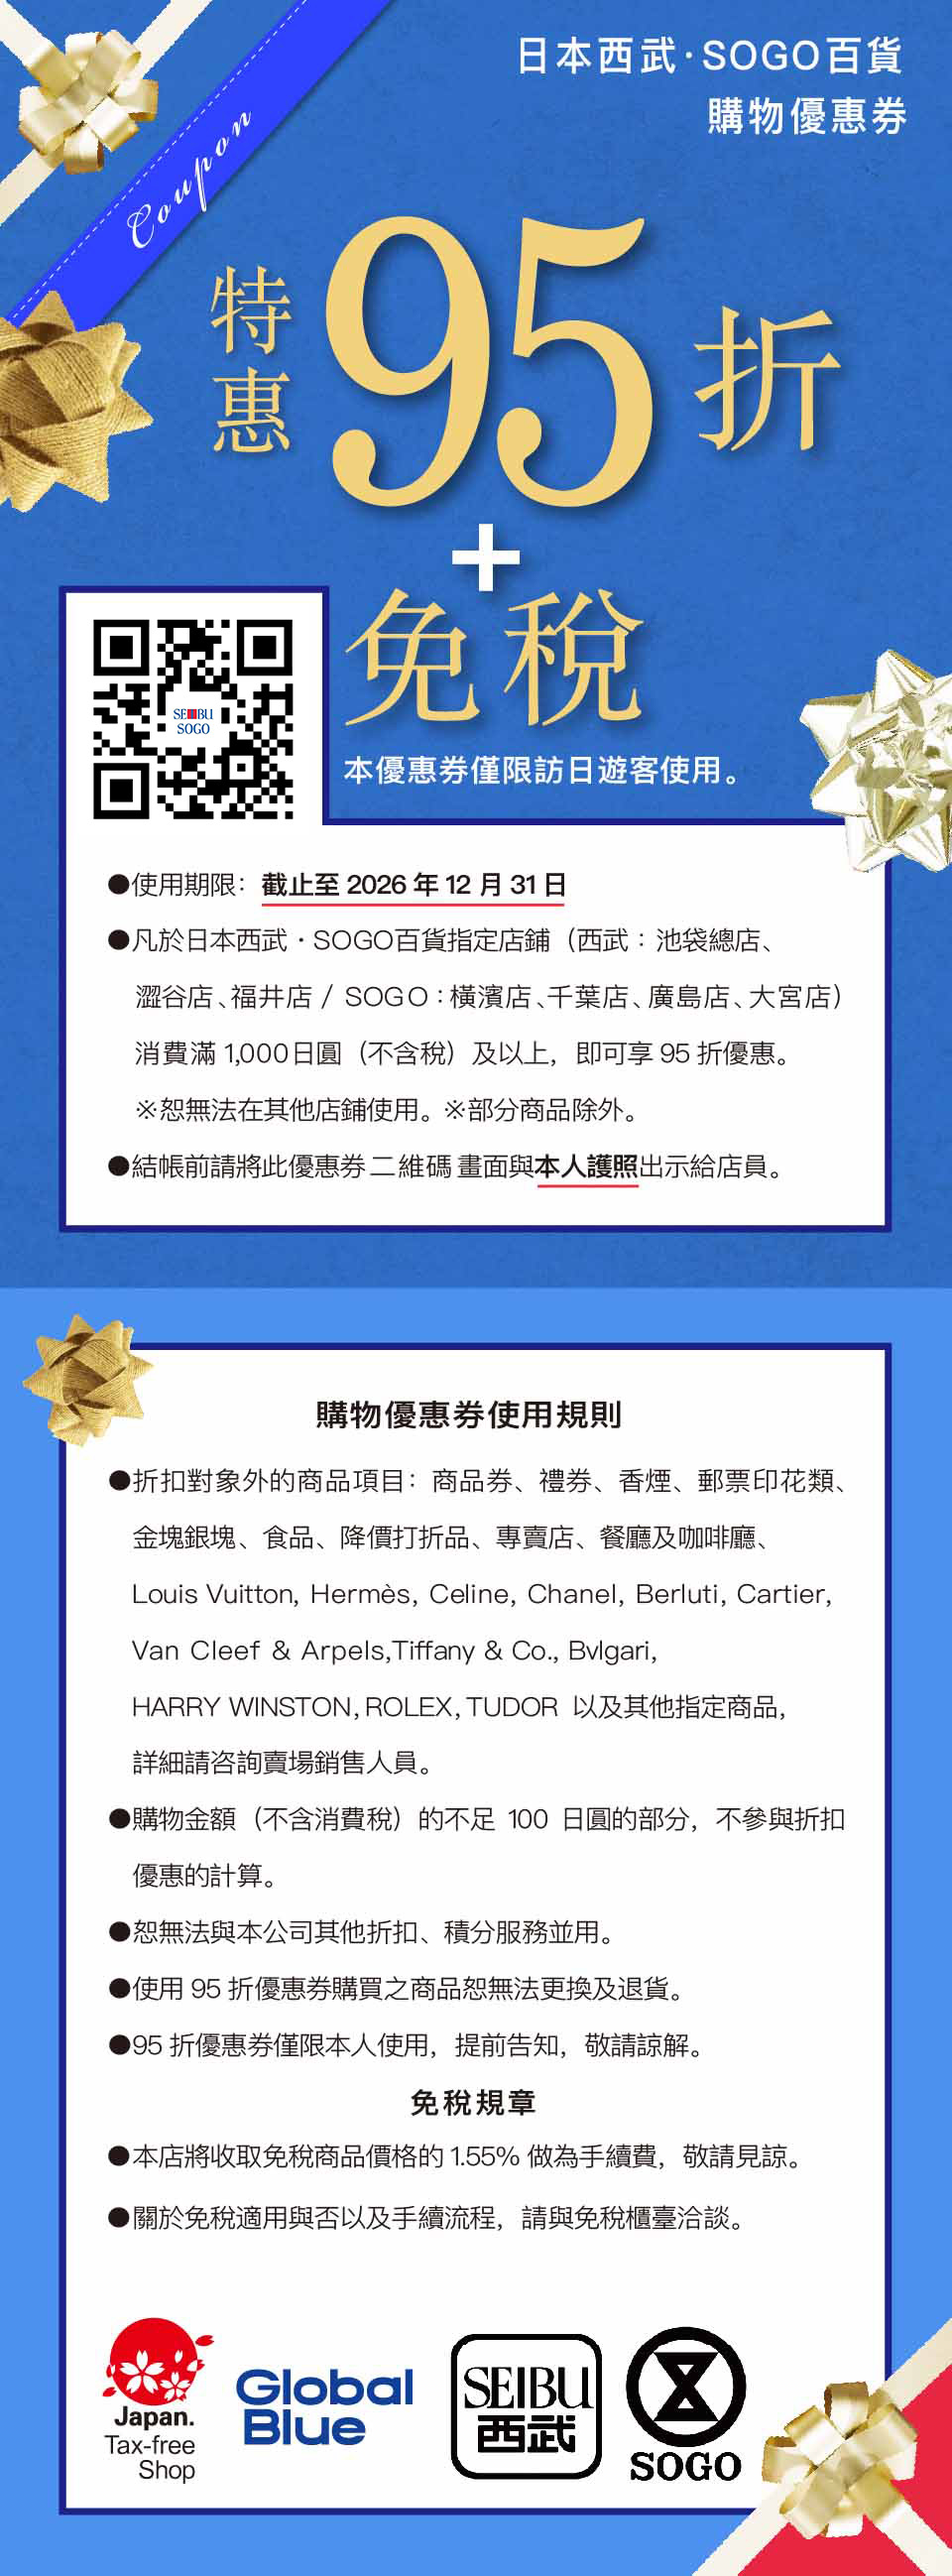
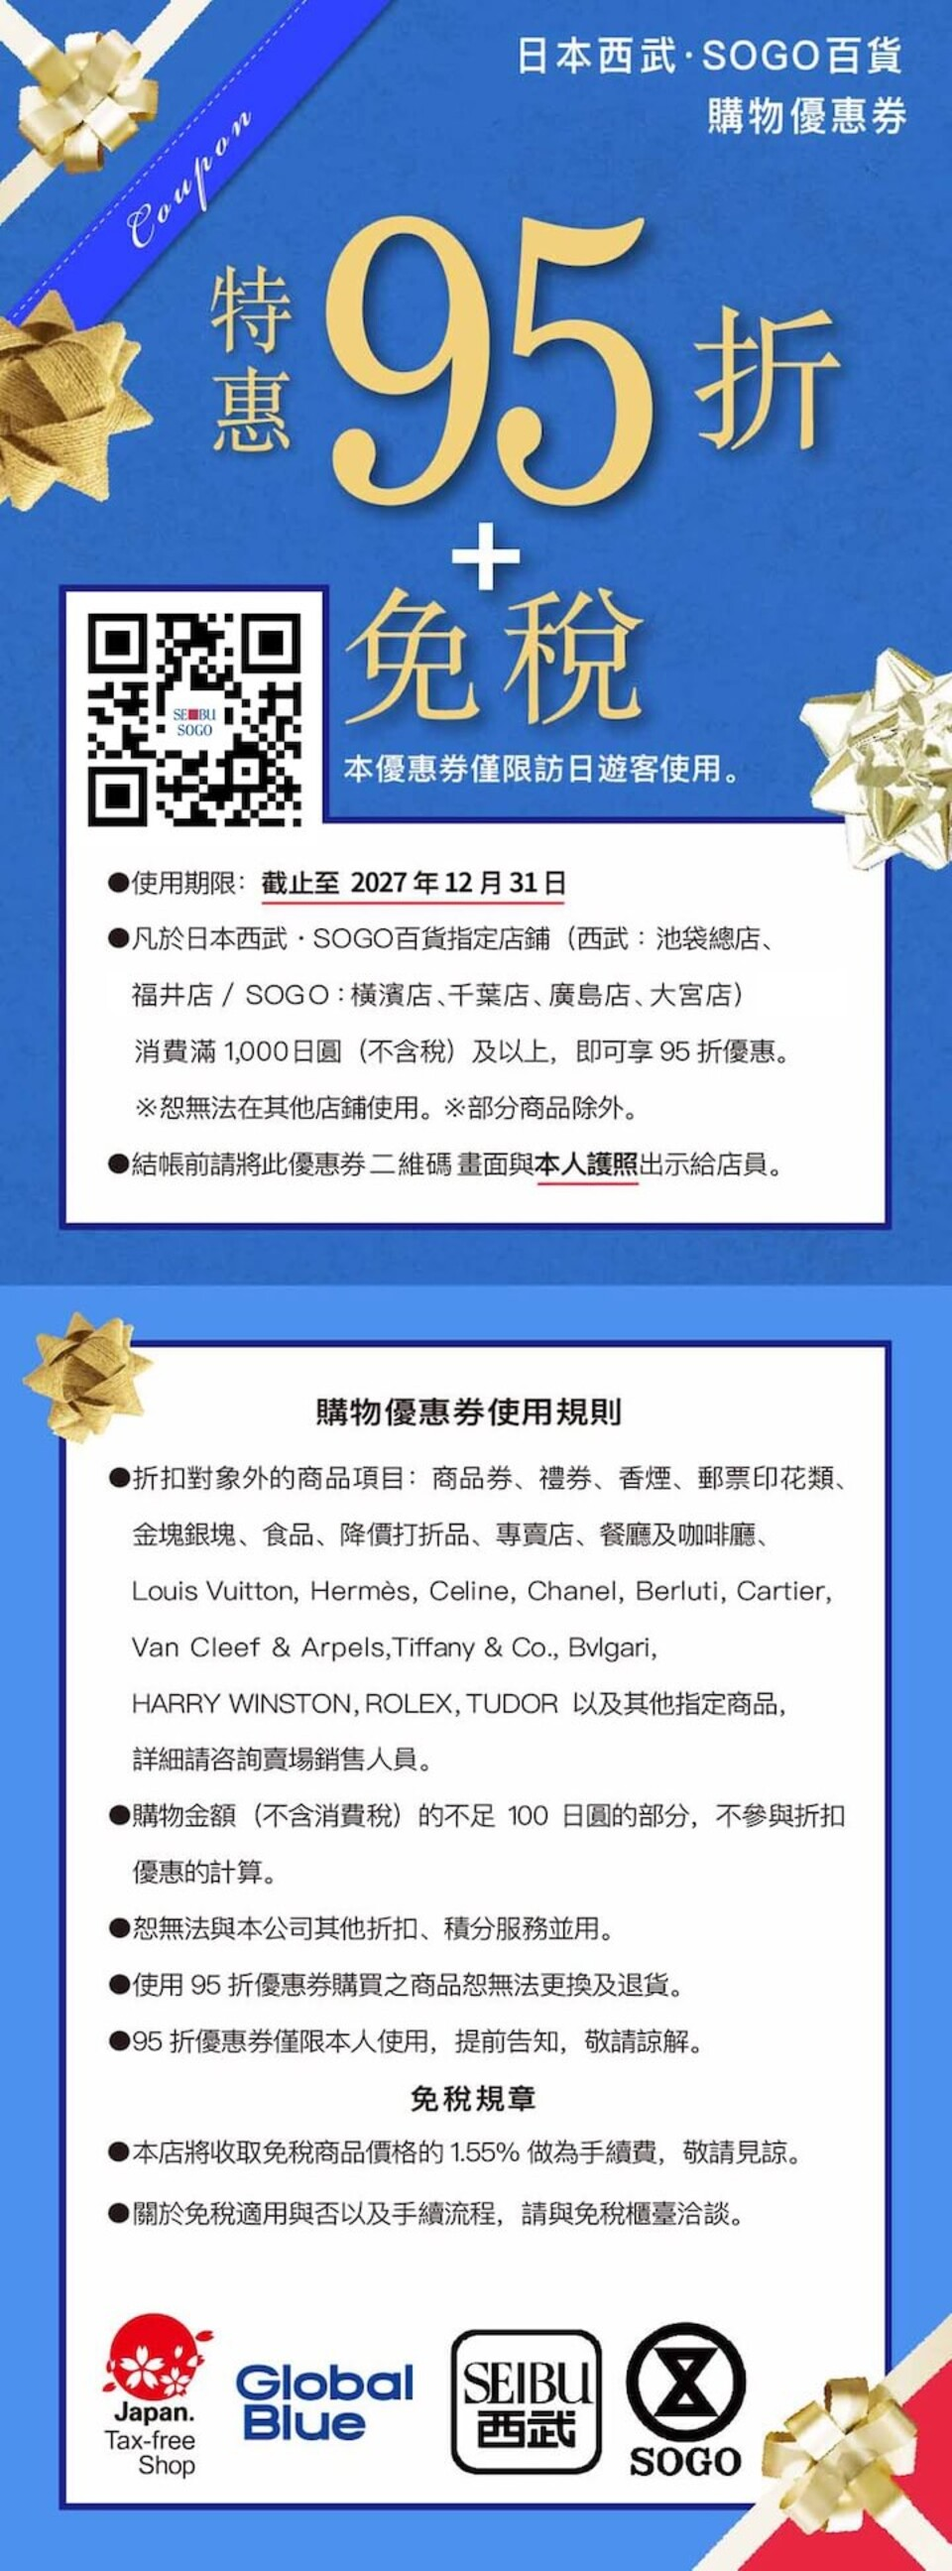
Coupon: update SEIBU/SOGO and Daimaru coupon images, extend deadlines
SEIBU/SOGO (west) now valid through 2027/12/31, Daimaru (daimaru)
through 2027/08/31, both TW and KR sites.

diff --git a/coupon/kr/daimaru/index.html b/coupon/kr/daimaru/index.html
@@ -33,7 +33,7 @@
     "price": "0",
     "priceCurrency": "JPY",
     "availability": "https://schema.org/InStock",
-    "validThrough": "2026-08-31",
+    "validThrough": "2027-08-31",
     "description": "최대 혜택"
   }
 }
@@ -316,7 +316,7 @@
         <h1>다이마루 마쓰자카야 백화점 쿠폰｜과세 포함 3,000엔 이상 구매 시 면세 + 5% 할인, 100,000엔 이상 구매 시 식사권 증정</h1>
         <p>과세 포함 3,000엔 이상 구매 시 면세 + 5% 할인, 100,000엔 이상 구매 시 식사권 증정</p>
         <p>할인 정보: 최대 혜택</p>
-        <p>할인 마감: 2026-08-31</p>
+        <p>할인 마감: 2027-08-31</p>
     </div>
     <script>
         (function(){

diff --git a/coupon/daimaru/index.html b/coupon/daimaru/index.html
@@ -33,7 +33,7 @@
     "price": "0",
     "priceCurrency": "JPY",
     "availability": "https://schema.org/InStock",
-    "validThrough": "2026-08-31",
+    "validThrough": "2027-08-31",
     "description": "85折"
   }
 }
@@ -315,7 +315,7 @@
         <h1>大丸松坂屋百貨 優惠券｜單筆消費含稅滿3千日圓免稅再享95折，滿10万日圓退稅再送美食券</h1>
         <p>單筆消費含稅滿3千日圓免稅再享95折，滿10万日圓退稅再送美食券</p>
         <p>折扣資訊：85折</p>
-        <p>優惠截止：2026-08-31</p>
+        <p>優惠截止：2027-08-31</p>
     </div>
     <script>
         (function(){

diff --git a/coupon/kr/west/index.html b/coupon/kr/west/index.html
@@ -33,7 +33,7 @@
     "price": "0",
     "priceCurrency": "JPY",
     "availability": "https://schema.org/InStock",
-    "validThrough": "2026-12-31",
+    "validThrough": "2027-12-31",
     "description": "최대 혜택"
   }
 }
@@ -316,7 +316,7 @@
         <h1>SEIBU/SOGO (세이부/소고 백화점) 쿠폰｜과세 포함 1,000엔 이상 상품은 면세 + 5% 할인 가능</h1>
         <p>과세 포함 1,000엔 이상 상품은 면세 + 5% 할인 가능</p>
         <p>할인 정보: 최대 혜택</p>
-        <p>할인 마감: 2026-12-31</p>
+        <p>할인 마감: 2027-12-31</p>
     </div>
     <script>
         (function(){

diff --git a/coupon/west/index.html b/coupon/west/index.html
@@ -33,7 +33,7 @@
     "price": "0",
     "priceCurrency": "JPY",
     "availability": "https://schema.org/InStock",
-    "validThrough": "2026-12-31",
+    "validThrough": "2027-12-31",
     "description": "85折"
   }
 }
@@ -315,7 +315,7 @@
         <h1>日本西武 SOGO百貨 優惠券｜滿1,000日圓享免稅10%，再享95折</h1>
         <p>滿1,000日圓享免稅10%，再享95折</p>
         <p>折扣資訊：85折</p>
-        <p>優惠截止：2026-12-31</p>
+        <p>優惠截止：2027-12-31</p>
     </div>
     <script>
         (function(){
